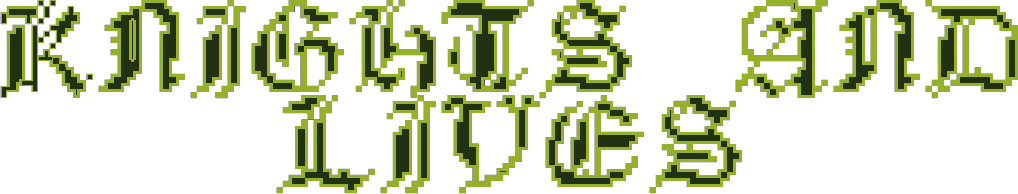
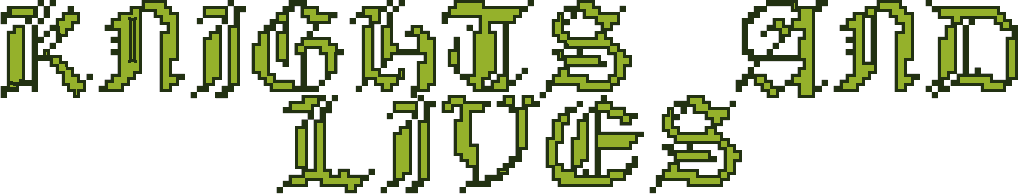
finished newSim Stylign and logic

Changed region(s): [[0.0, 0.0, 0.7308, 1.0], [0.7004, 0.0, 1.0, 0.5258]]

diff --git a/client/src/components/NewSimScreen.jsx b/client/src/components/NewSimScreen.jsx
@@ -1,37 +1,73 @@
 import { useEffect, useState } from "react"
 import "./NewSimScreen.css"
 import { getAllFamilyNames } from "../scripts/apiManager"
-export const NewSimScreen = ({setFamilyName, familyName}) => {
+import { FontAwesomeIcon } from "@fortawesome/react-fontawesome";
+import { faPlay } from "@fortawesome/free-solid-svg-icons";
+export const NewSimScreen = ({setFamilyName, familyName, setCharacter, setCharacterSet}) => {
 
     const [familyNames, setFamilyNames] = useState([])
-
+    const [isShaking, setIsShaking] = useState(false)
+    const [isHovered, setIsHovered] = useState(false)
+    const [firstName, setFirstName] = useState("")
     useEffect(() => {
         getAllFamilyNames().then((data) => setFamilyNames(data))
     }, [])
 
+
      const getRandomFamilyName = () => {
         const randomNumber = Math.random();
-        if (randomNumber < 0.994)
+        if (randomNumber < 0.7)
         {
             const peasants = familyNames.filter((item) => item.isPeasant);
             const randomNumberForPeasant = Math.floor(Math.random()* peasants.length);
             setFamilyName(peasants[randomNumberForPeasant])
+            setIsShaking(true)
+            setTimeout(() => {
+                setIsShaking(false);
+            }, 500);
             return peasants[randomNumberForPeasant];
         }
-        else if (randomNumber < 0.999) {
+        else if (randomNumber < 0.9) {
             const warriors = familyNames.filter((item) => item.isWarrior);
             const randomNumberForWarrior = Math.floor(Math.random() * warriors.length);
             setFamilyName(warriors[randomNumberForWarrior])
+            setIsShaking(true)
+            setTimeout(() => {
+                setIsShaking(false);
+            }, 500);
             return warriors[randomNumberForWarrior]
         }
         else {
             const royalty = familyNames.filter((item) => item.isRoyalty)
             const randomNumberForRoyalty = Math.floor(Math.random()* royalty.length)
             setFamilyName(royalty[randomNumberForRoyalty])
+            setIsShaking(true)
+            setTimeout(() => {
+                setIsShaking(false);
+            }, 100);
             return royalty[randomNumberForRoyalty]
         }
 
     }
+    const handleFirstNameChange = (event) => {
+        setFirstName(event.target.value)
+    }
+    const handleMouseEnter = () => {
+        setIsHovered(true)
+    }
 
-    return (<div className="new-sim-container"><div className="game-title"><img src="../client/public/Knight and Lives title.png" className="game-title-text"/></div><div className="name-input-container"><h2> Name</h2><input className="name-input-box"></input> <div className="family-name-container"><button onClick={getRandomFamilyName}>Reroll</button> {familyName.name}</div></div><div className="start-btn-container"><button>Start your adventure</button></div></div>)
+    const handleMouseLeave = () => {
+        setIsHovered(true)
+    }
+    const handleStart = () => {
+        if (firstName != ""){
+            setCharacter(firstName)
+            setCharacterSet(true)
+        }
+        else {
+            window.alert("Please fill out name!")
+        }
+    }
+
+    return (<div className="new-sim-container"><div className="game-title"><h2 className="game-title-text">Knights & Lives</h2></div><div className="name-input-container"><h2 className="name-text-input"> Name:</h2><div className="input-and-family-container"><input onChange={handleFirstNameChange}className="name-input-box"></input> <div className="family-name-container"><div className="reroll-btn-icon"><button className="reroll-button" onMouseEnter={handleMouseEnter} onMouseLeave={handleMouseLeave} onClick={getRandomFamilyName}>Reroll</button>{isHovered ? <FontAwesomeIcon className="play-btn-icon" icon={faPlay} /> : ""}</div><h2 className={`family-name-text ${isShaking? `shake` : ``}`}>{familyName.name}</h2></div></div></div><div className="start-btn-container"><button onClick={handleStart}className="start-btn">Start your adventure</button></div></div>)
 }

diff --git a/client/src/components/NewSimScreen.css b/client/src/components/NewSimScreen.css
@@ -7,12 +7,30 @@
 }
 
 .game-title{
-    
+    width: 100%;
+    height: 100px;
+    background-image: url("../client/public/ScrollArtFinal.png");
+    background-size: 550px, 150px;
+    background-position: center;
+    display: flex;
+    align-items: center;
+    justify-content: center;
+
 }
 
 .game-title-text{
     height: 100%;
     width: 100%;
+    font-family: "Jacquard 12", serif;
+    margin: 0;
+    display: flex;
+    align-items: center;
+    justify-content: center;
+    font-size: 50px;
+    text-shadow: 2px 2px 4px rgba(0, 0, 0, 0.5), 0px 10px 0px rgba(0, 0, 0, 0.5);
+    color:#b5d22f;
+    transform: rotate(-7deg)
+    
 }
 .name-input-container h2{
     margin: 0;
@@ -20,9 +38,105 @@
 }
 .name-input-container{
     display: flex;
-    justify-content: space-evenly;
+    justify-content: space-around;
+    align-items: center;
 }
+
+.name-input-container{
+    font-family: "Jacquard 12", serif;
+}
+.name-text-input{
+    font-size: 40px;
+    color: #073b00;
+}
+.name-input-box{
+    background-color: transparent;
+    border: 2px solid #3a5a1f;
+    font-size: 30px;
+    font-family: "Jacquard 12", serif;
+    width: 150px;
+    height: 40px;
+    color: #073b00;
+    text-align: center;
+}
+
 .family-name-container{
     display: flex;
     flex-direction: column-reverse;
+    padding-top: 40px;
+    align-items: left;
+    width: 150px;
+    margin-left: 20px;
+}
+.family-name-text{
+    font-size: 35px;
+    color: #073b00;
+    display: flex;
+    flex-wrap: wrap;
+    
+}
+
+/* animation for reroll */
+@keyframes shake {
+    0% { transform: translateX(0); }
+    25% { transform: translateX(-5px); }
+    50% { transform: translateX(5px); }
+    75% { transform: translateX(-5px); }
+    100% { transform: translateX(0); }
+}
+
+
+.shake {
+    animation: shake 0.3s ease;
+}
+
+.reroll-button{
+    border: none;
+    background-color: transparent;
+    font-family: "Micro 5", serif;
+    font-size: 35px;
+    width: auto;
+    padding:0;
+    align-items: start;
+    color: #b5d22f;
+}
+.reroll-btn-icon{
+    display: flex;
+    flex-direction: row-reverse;
+    align-items: center;
+    justify-content: left;
+    gap: 10px;
+    width: auto;
+}
+.play-btn-icon{
+    padding-right: 5px;
+    color: #b5d22f;
+}
+.start-btn-container{
+    width: 100%;
+    display: flex;
+    justify-content: center;
+    background-image: url("../client/public/Ribbon-2-fin-png.png");
+    background-position: center;
+    background-size: 500px 400px;
+    height: 100px;
+    
+
+}
+.start-btn{
+    background-color: transparent;
+    border: none;
+    text-align: center;
+    height: 50px;
+    font-family: "Jacquard 12", serif;
+    font-size: 35px;
+}
+
+.start-btn:hover{
+    font-size: 36px;
+}
+.input-and-family-container{
+    display: flex;
+    align-items: center;
+    justify-content: space-around;
 }

diff --git a/client/src/components/MainScreen.jsx b/client/src/components/MainScreen.jsx
@@ -53,7 +53,7 @@ export const MainScreen = ({allYearlyEvents}) => {
         setCharacterSet(false)
     }, [])
     console.log(characterSet);
-     return (!characterSet ? <div className="screen-inner-container"> <NewSimScreen setFamilyName={setFamilyName} familyName={familyName}/> </div>: (<div className="screen-inner-container"><MenuBar currentYear={currentYear} setCurrentYear={setCurrentYear} allYearlyEvents={allYearlyEvents} addNewEvent={addNewEventToScreen}/><div className="yearly-event-screen"><ul className="event-list">{eventList.map((event) => (
+     return (!characterSet ? <div className="screen-inner-container"> <NewSimScreen setCharacterSet={setCharacterSet} setCharacter={setCharacter} setFamilyName={setFamilyName} familyName={familyName}/> </div>: (<div className="screen-inner-container"><MenuBar currentYear={currentYear} setCurrentYear={setCurrentYear} allYearlyEvents={allYearlyEvents} addNewEvent={addNewEventToScreen}/><div className="yearly-event-screen"><ul className="event-list">{eventList.map((event) => (
         <li><YearlyEventItem currentYear={currentYear} event={event}/></li>
     ))}</ul></div><div className="header-screen"><div className="name-container"></div><div className="bars-name"><ul className="bars-names-list"><li>Health</li><li>Hygeine</li><li>Food</li><li>Mood</li></ul></div><div className="bars-container"><div className="hp-bar-outer" ><div className="hp-bar-inner" style={{ '--health-width': `${health}%`, "--bar-color": healthBarColor,}}></div></div><div className="hygeine-bar-outer"><div className="hygeine-bar-inner"style={{ '--hygeine-width': `${hygeine}%`, "--bar-color": hygeineBarColor,}}></div></div><div className="food-bar-outer"><div className="food-bar-inner" style={{ '--food-width': `${food}%`, "--bar-color": foodBarColor,}}></div></div><div className="mood-bar-outer"><div className="mood-bar-inner" style={{ '--mood-width': `${mood}%`, "--bar-color": moodBarColor,}}></div></div></div></div></div>));
 }

diff --git a/Program.cs b/Program.cs
@@ -125,6 +125,134 @@ List<FamilyName> familyNames = new List<FamilyName>
         IsWarrior = false,
         IsPeasant = true,
     },
+    new FamilyName
+    {
+        Id = 6,
+        Name = "Robertson",
+        IsRoyalty = false,
+        IsWarrior = true,
+        IsPeasant = false,
+    },
+    new FamilyName
+    {
+        Id = 7,
+        Name = "Richards",
+        IsRoyalty = false,
+        IsWarrior = false,
+        IsPeasant = true,
+    },
+    new FamilyName
+    {
+        Id = 8,
+        Name = "Parker",
+        IsRoyalty = false,
+        IsWarrior = true,
+        IsPeasant = false,
+    },
+    new FamilyName
+    {
+        Id = 9,
+        Name = "Dismay",
+        IsRoyalty = false,
+        IsWarrior = true,
+        IsPeasant = false,
+    },
+    new FamilyName
+    {
+        Id = 10,
+        Name = "DungEater",
+        IsRoyalty = false,
+        IsWarrior = false,
+        IsPeasant = true,
+    },
+    new FamilyName
+    {
+        Id = 11,
+        Name = "Riddle",
+        IsRoyalty = false,
+        IsWarrior = true,
+        IsPeasant = false,
+    },
+    new FamilyName
+    {
+        Id = 12,
+        Name = "Uzumaku",
+        IsRoyalty = true,
+        IsWarrior = false,
+        IsPeasant = false,
+    },
+    new FamilyName
+    {
+        Id = 13,
+        Name = "Bubbles",
+        IsRoyalty = true,
+        IsWarrior = false,
+        IsPeasant = false,
+    },
+    new FamilyName
+    {
+        Id = 14,
+        Name = "Wesson",
+        IsRoyalty = false,
+        IsWarrior = true,
+        IsPeasant = false,
+    },
+    new FamilyName
+    {
+        Id = 15,
+        Name = "The Last",
+        IsRoyalty = false,
+        IsWarrior = true,
+        IsPeasant = false,
+    },
+    new FamilyName
+    {
+        Id = 16,
+        Name = "Byars",
+        IsRoyalty = true,
+        IsWarrior = false,
+        IsPeasant = false,
+    },
+    new FamilyName
+    {
+        Id = 17,
+        Name = "Simuluth",
+        IsRoyalty = false,
+        IsWarrior = false,
+        IsPeasant = true,
+    },
+    new FamilyName
+    {
+        Id = 18,
+        Name = "Turs",
+        IsRoyalty = false,
+        IsWarrior = false,
+        IsPeasant = true,
+    },
+    new FamilyName
+    {
+        Id = 19,
+        Name = "Curro",
+        IsRoyalty = false,
+        IsWarrior = false,
+        IsPeasant = true,
+    },
+    new FamilyName
+    {
+        Id = 20,
+        Name = "Sarth",
+        IsRoyalty = false,
+        IsWarrior = false,
+        IsPeasant = true,
+    },
+    new FamilyName
+    {
+        Id = 21,
+        Name = "Skywalker",
+        IsRoyalty = true,
+        IsWarrior = false,
+        IsPeasant = false,
+    },
 };
 
 //get all yearly events
